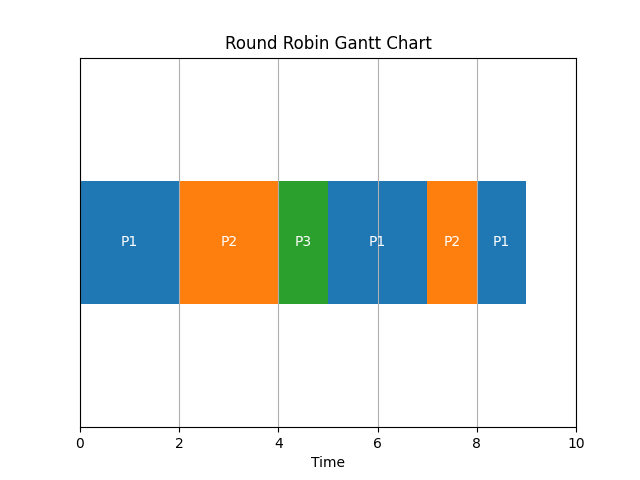
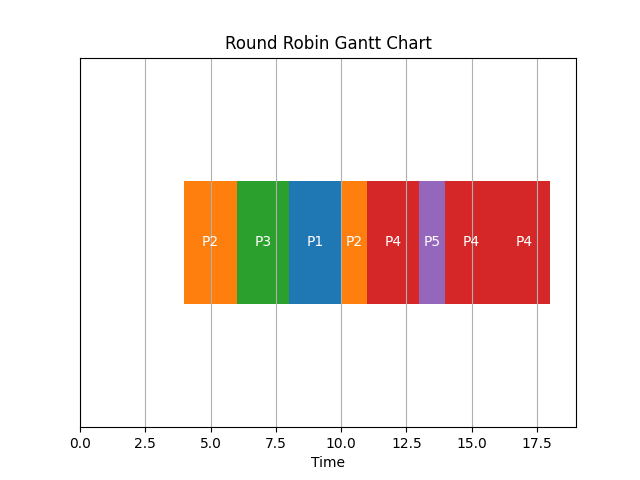
Added modular scheduler architecture and workload generation support

diff --git a/python_scheduler/main.py b/python_scheduler/main.py
@@ -2,6 +2,24 @@
 # modularization separating codes
 import csv
 import argparse
+import random
+
+
+
+def generate_random_processes(n):
+
+    processes = []
+
+    for pid in range(1, n + 1):
+        process = {
+            "pid": pid,
+            "arrival_time": random.randint(0, 10),
+            "burst_time": random.randint(1,10),
+            "priority": random.randint(1,5)
+
+        }
+        processes.append(process)
+    return processes
 
 
 def load_processes_from_csv(filename):
@@ -47,13 +65,21 @@ parser.add_argument(
     type=str,
     help="CSV input file"
 )
+parser.add_argument(
+    "--random",
+    type=int,
+    help="Generate random processes"
 
+)
 args = parser.parse_args()
 
 if args.file:
 
     processes = load_processes_from_csv(args.file)
-    print(processes)
+
+elif args.random:
+
+    processes = generate_random_processes(args.random)
 
 else:
 
@@ -72,13 +98,13 @@ for process in processes:
     process["started"] = False
     process["response_time"] = 0
 
-completed, gantt = round_robin(processes, quantum=2)
+results, gantt = round_robin(processes, quantum=2)
 
-print_results_table(completed)
+print_results_table(results)
 
 print("\nSUMMARY METRICS")
 
-summary = calculate_averages(completed)
+summary = calculate_averages(results)
 
 for key, value in summary.items():
     print(f"{key}: {value:.2f}")

diff --git a/python_scheduler/algorithms/schedulers.py b/python_scheduler/algorithms/schedulers.py
@@ -92,7 +92,8 @@ def sjf(processes):
 
     return completed
 
-#priority scheduling
+
+# priority scheduling
 def priority_scheduling(processes):
     processes = sorted(
         processes,
@@ -172,7 +173,7 @@ def round_robin(processes, quantum=2):
     )
 
     ready_queue = []
-    completed = []
+    results = []
     gantt = []
 
     time = 0
@@ -183,7 +184,7 @@ def round_robin(processes, quantum=2):
         process["remaining_time"] = process["burst_time"]
         process["started"] = False
 
-    while len(completed) < n:
+    while len(results) < n:
 
         while index < n and processes[index]["arrival_time"] <= time:
             ready_queue.append(processes[index])
@@ -229,7 +230,7 @@ def round_robin(processes, quantum=2):
 
             wt = tat - process["burst_time"]
 
-            completed.append({
+            results.append({
                 "pid": process["pid"],
                 "arrival_time": process["arrival_time"],
                 "burst_time": process["burst_time"],
@@ -239,4 +240,4 @@ def round_robin(processes, quantum=2):
                 "response_time": process["response_time"]
             })
 
-    return completed, gantt
+    return results, gantt
